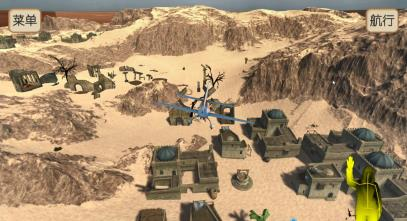
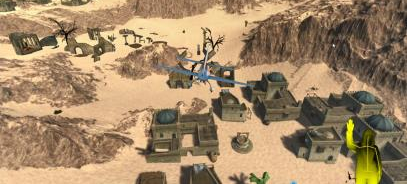
Add content

diff --git a/_portfolio/portfolio-05.html b/_portfolio/portfolio-05.html
@@ -76,19 +76,37 @@ The game has a voxelized art style. We made all the textures and models used in 
   </p>
 <p>
   We provide two example scenes to demostrate what we can do within the sandbox:<br>
-  - The desert scene we present contains a realistic terrain and rich
+  - The desert scene contains a realistic terrain and rich
   attractive environment details. Users can control a steerable airplane to go for a gliding experience.<br>
   - The battlefield scene has a terrain generated from real world height map and texture and various military unit models.
-  Users can fly a fighter, or command the movement of a group of the military unit models. 
+  Users can fly a fighter, or command a group of the military unit models for a mini war game. 
 </p>
-
+<h3>Screenshots</h3>
+<img align="center"  src="/images/games/d0.png" width="100%">
 
 
 
 <h2>GodGame</h2>
 <h3>Description</h3>
 <p>We made a strategic card game in Unreal Engine 4. 
-  The player is the god of a planet.
+  The player has the role of the god of a planet who needs to guide his people to avoid 
+  an asteroid accident.
+  The cards carry different guidance from the god, including:<br>
+  
+  - creating natural resources (create trees, ores, crops out of nowhere), <br>
+  - guiding religious faith (use recources to build shrines leads to more options of cards)<br>
+  - and enlightening technological inventions (create new buildings, factories).<br>
+
+  In each round some random cards are drawn and the player can choose one of them.
+  The player needs to maintain a blance between all resources and the construction and manage to
+  build a spaceship in a limited number of rounds.<br>
+  We write AI for the npcs for them to carry out the daily activities, e.g. collect the food
+  from exsiting fields, chop the nearby forests, and bring ores to the smelter. Thus when there is no guidance from the god, the game simulates the development.
+  <h3>Screenshots</h3>
+<img align="center"  src="/images/games/g0.png" width="60%">
+<img align="center"  src="/images/games/g2.png" width="60%">
+<img align="center"  src="/images/games/g1.png" width="60%">
+<img align="center"  src="/images/games/g3.png" width="60%">
 
   
 </p>
